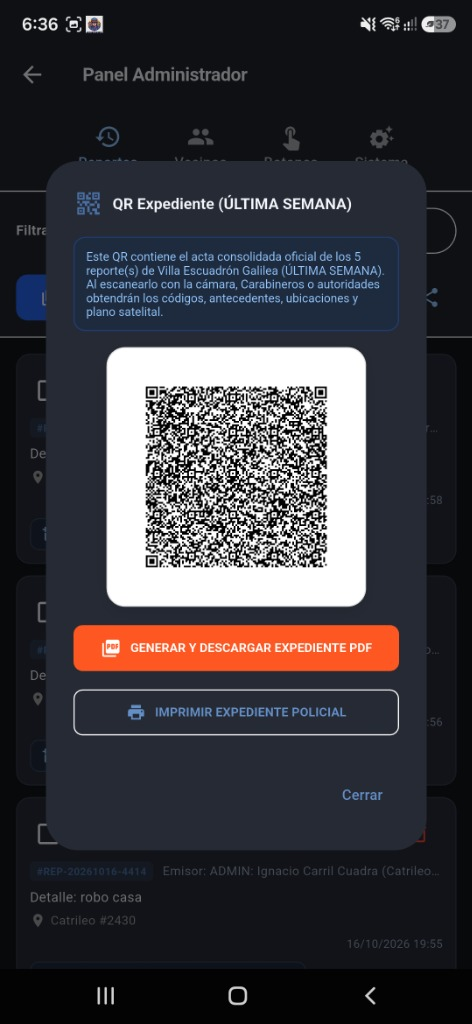
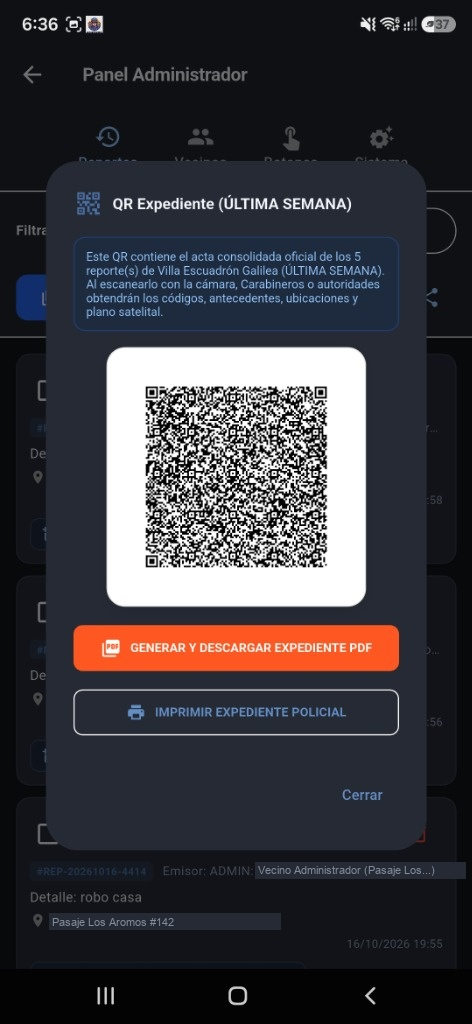
docs: anonymize all personal names and addresses in screenshots and documentation

Changed region(s): [[0.089, 0.8438, 1.0, 0.9062]]

diff --git a/app/lib/services/manual_pdf_service.dart b/app/lib/services/manual_pdf_service.dart
@@ -193,7 +193,7 @@ class ManualPdfService {
               _buildCalloutItem(
                 number: '1',
                 title: 'OPCION 1: "EN MI DOMICILIO REGISTRADO"',
-                action: 'Selecciona tu casa predeterminada (ej: Catrileo #2430) en 1 segundo.',
+                action: 'Selecciona tu casa predeterminada (ej: Pasaje Los Aromos #142) en 1 segundo.',
                 instruction: 'Es la opcion mas rapida y recomendada cuando la emergencia ocurre en tu propio hogar.',
                 badgeColor: PdfColors.indigo900,
               ),

diff --git a/README.md b/README.md
@@ -47,7 +47,7 @@ A continuación se detalla el funcionamiento completo del sistema utilizando las
   <img src="app/assets/images/manual/vecino_inicio_superior.jpg" alt="Vista Principal del Vecino" width="380" />
 </div>
 
-* **Identificación Comunitaria:** En la barra superior el vecino visualiza el logo oficial junto a su dirección física registrada (ej. `Catrileo #2430`).
+* **Identificación Comunitaria:** En la barra superior el vecino visualiza el logo oficial junto a su dirección física registrada (ej. `Pasaje Los Aromos #142`).
 * **Botón de Ajustes (⚙):** Permite cambiar con un toque entre **Modo Claro (Día)** y **Modo Oscuro (Noche)** para proteger la vista de los adultos mayores.
 * **Ficha de Estado del Residente:** Indica `● EN LÍNEA • PROTEGIDO`. Cuenta con un lápiz de edición (`✏`) protegido con un límite estricto de 3 intentos para evitar suplantaciones de identidad.
 * **Centrales de Emergencia de 1-Toque (Llamada Inmediata):** Botones de marcado rápido que conectan de inmediato sin buscar en la agenda:
